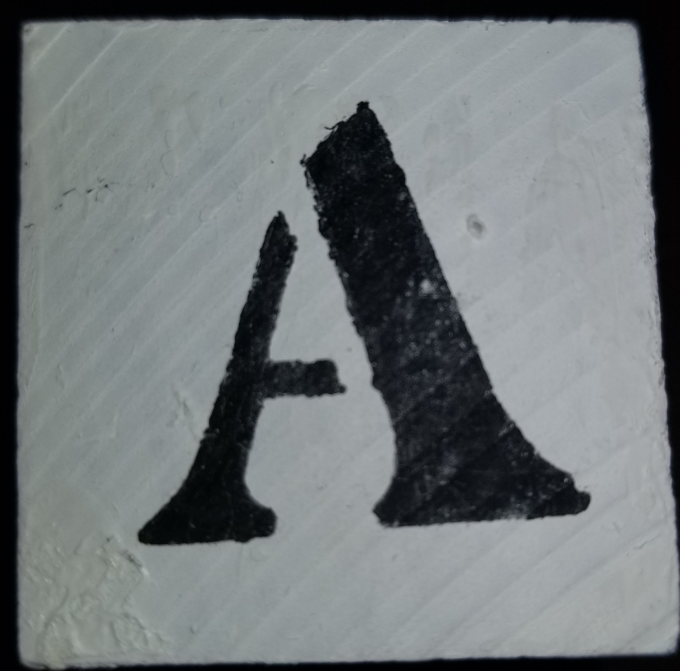
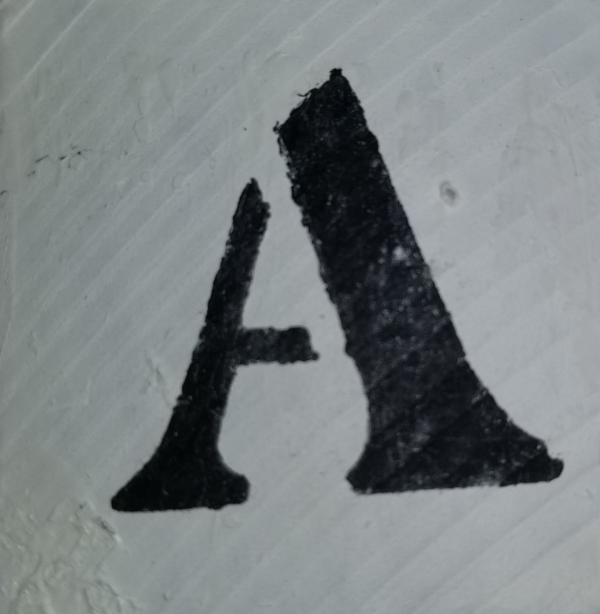
Crops image before attempting to detect letters

diff --git a/OpenCV_Pytesseract/LetterRecognition.py b/OpenCV_Pytesseract/LetterRecognition.py
@@ -33,9 +33,6 @@ def main():
         print(findImage(name, str(index)))
         index = index + 1
 
-
-    #print(findImage(pictures[0]))
-
     print("Done")
     cv2.waitKey(0)
     cv2.destroyAllWindows()
@@ -44,11 +41,12 @@ def findImage(name, windowname):
     # list of letters we are looking for
     letters = ['A', 'B', 'C', 'D', 'E', 'F']
     
-    # Convert picture to binary
+    # read image
     image = cv2.imread(name)
+    # convert image to grayscale
     gray_image = cv2.cvtColor(image, cv2.COLOR_BGR2GRAY)
-    ret,thresh = cv2.threshold(gray_image, 80, 225, cv2.THRESH_BINARY)
-
+    gray_image = crop(gray_image)
+    ret,thresh = cv2.threshold(gray_image, 70, 255, cv2.THRESH_BINARY)
     cv2.imshow(windowname, thresh)
 
     # read the picture using Tesseract
@@ -63,6 +61,7 @@ def findImage(name, windowname):
 
     return text
 
+# rotates image 90 degrees
 def rotate(image):
     # get image height and width
     (h, w) = image.shape[:2]
@@ -76,7 +75,16 @@ def rotate(image):
 
     return rotated90
 
+# crops outer edges
+def crop(image):
+    # image dimensions
+    (x,y) = image.shape[:2]
+    numCrop = 50
 
+    # crop image
+    cropped = image[numCrop:x-numCrop, numCrop:y-numCrop]
+
+    return cropped
 
 if __name__ == "__main__":
     main()
